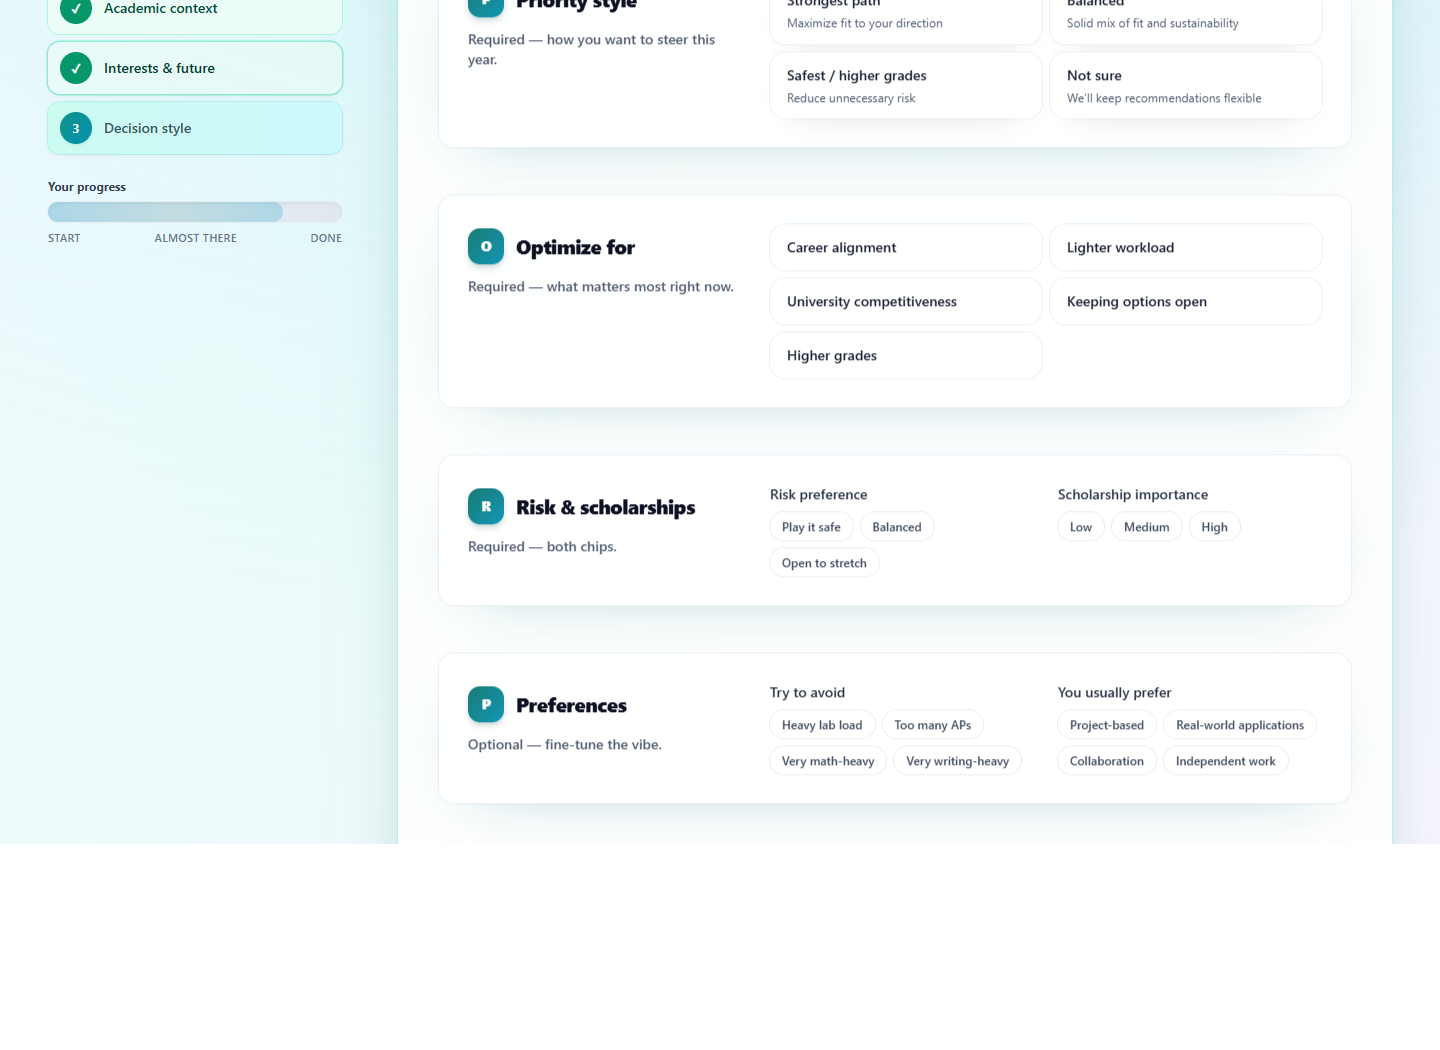
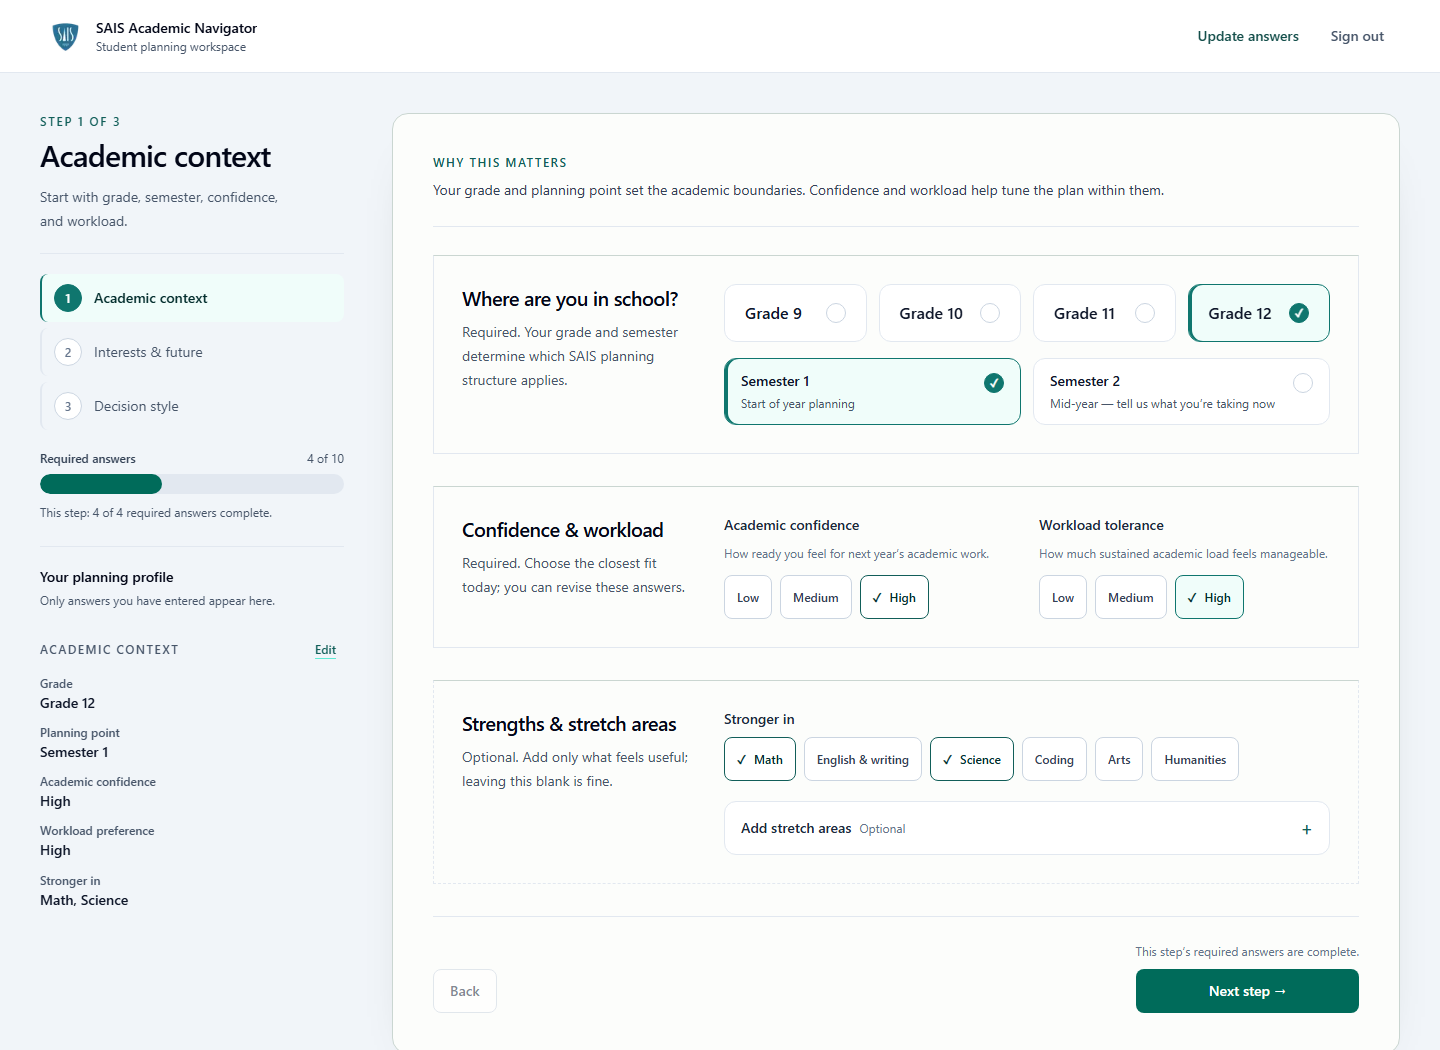
docs: update redesigned interface evidence

diff --git a/CHANGELOG.md b/CHANGELOG.md
@@ -1,5 +1,17 @@
 # Changelog
 
+## Unreleased
+
+### Visual and UX
+
+- Reduced decision fatigue by separating required choices from optional detail
+- Clarified intake grouping and real required-answer progress
+- Added an editable, answer-derived planning profile
+- Strengthened the Best Fit recommendation hierarchy while keeping full reasoning available
+- Simplified the visual system for a calmer academic-advising identity
+- Improved counselor-record scanability and print presentation
+- Preserved accessibility, reduced-motion, and mobile behavior
+
 ## 1.0.0 — 2026-07-24
 
 ### Product
